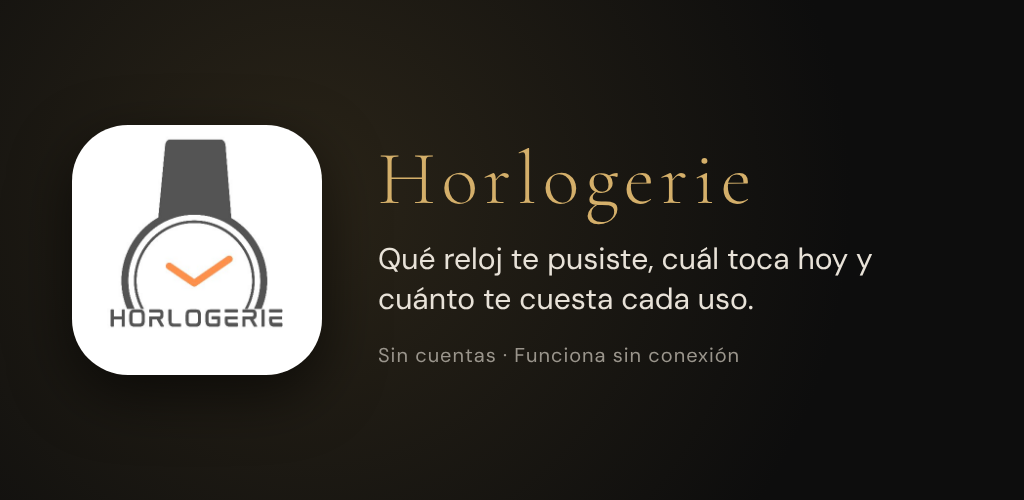
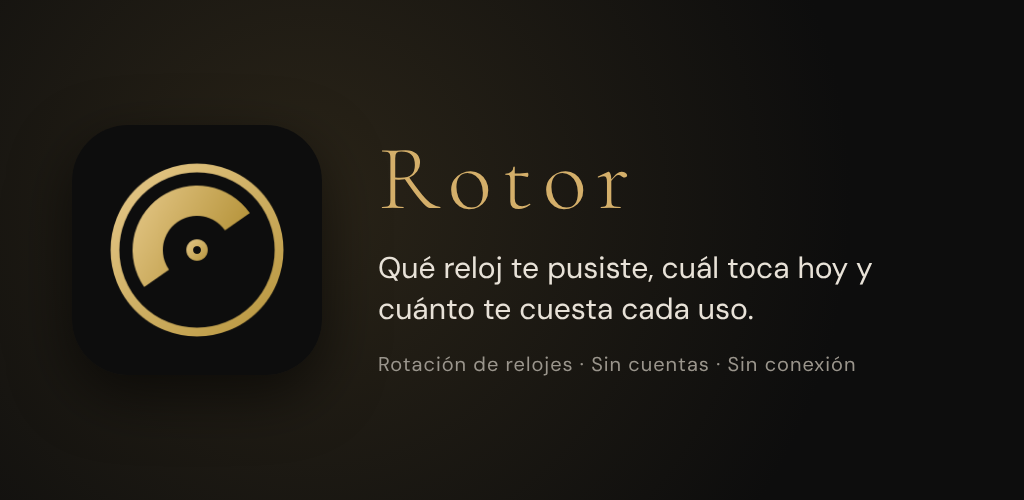
feat: la app pasa a llamarse Rotor (v2.4.0)
Cambia solo lo visible: título, pantalla de inicio, cabecera, manifest,
PDF, nombres de archivo exportados, política de privacidad, ficha de Play
(«Rotor: rotación de relojes», 26 caracteres), capturas y gráfico
destacado. Paquete propuesto: com.delfosiq.rotor.

Se mantienen a propósito la URL /horlogerie/, las claves de localStorage,
IndexedDB y KV, la cabecera X-Horlogerie-User, el repositorio y el Worker:
cambiarlos rompería las instalaciones y los datos existentes.

Claude-Session: https://claude.ai/code/session_01Srs5XVbJ5hBmUFD4MyUTpg

diff --git a/index.html b/index.html
@@ -17,16 +17,16 @@
 <meta name="theme-color" content="#0D0D0D">
 <meta name="apple-mobile-web-app-capable" content="yes">
 <meta name="apple-mobile-web-app-status-bar-style" content="black-translucent">
-<meta name="apple-mobile-web-app-title" content="Horlogerie">
+<meta name="apple-mobile-web-app-title" content="Rotor">
 <meta name="description" content="Gestión de colección de relojes">
 <link rel="manifest" href="./manifest.json">
 <link rel="icon" type="image/x-icon" href="./favicon.ico">
 <link rel="icon" type="image/png" sizes="16x16" href="./icons/favicon-16x16.png">
 <link rel="icon" type="image/png" sizes="32x32" href="./icons/favicon-32x32.png">
 <link rel="apple-touch-icon" sizes="180x180" href="./icons/apple-touch-icon.png">
-<title>Horlogerie</title>
-<link rel="stylesheet" href="./css/fonts.css?v=2.3.0">
-<link rel="stylesheet" href="./css/icons.css?v=2.3.0">
+<title>Rotor</title>
+<link rel="stylesheet" href="./css/fonts.css?v=2.4.0">
+<link rel="stylesheet" href="./css/icons.css?v=2.4.0">
 <style>
 /* CRITICAL CSS - inlined to survive SW cache issues */
 *,*::before,*::after{box-sizing:border-box;margin:0;padding:0;}
@@ -68,6 +68,7 @@ body{background:var(--dark);color:var(--light);font-family:var(--font-body);}
 /* INTRO */
 .intro{position:fixed;inset:0;background:var(--dark);display:flex;flex-direction:column;align-items:center;justify-content:center;z-index:999;transition:opacity 0.6s ease;}
 .intro.fade{opacity:0;pointer-events:none;}
+.intro-mark{width:84px;height:84px;margin-bottom:18px;}
 
 /* TOAST */
 .toast{position:fixed;top:calc(var(--safe-top) + 50px);left:50%;transform:translateX(-50%) translateY(-80px);background:var(--dark2);border:0.5px solid var(--gold);border-radius:var(--radius);padding:10px 18px;font-size:13px;color:var(--light);z-index:500;transition:transform 0.3s ease;white-space:nowrap;pointer-events:none;}
@@ -98,7 +99,7 @@ body{background:var(--dark);color:var(--light);font-family:var(--font-body);}
 .loading-spinner{display:inline-block;width:14px;height:14px;border:2px solid var(--mid);border-top-color:var(--gold);border-radius:50%;animation:spin 0.7s linear infinite;}
 @keyframes spin{to{transform:rotate(360deg);}}
 </style>
-<link rel="stylesheet" href="./css/app.css?v=2.3.0">
+<link rel="stylesheet" href="./css/app.css?v=2.4.0">
 </head>
 <body>
 <a href="#view-home" class="sr-only skip-link">Saltar al contenido principal</a>
@@ -106,9 +107,10 @@ body{background:var(--dark);color:var(--light);font-family:var(--font-body);}
 
   <!-- INTRO SPLASH -->
   <div class="intro" id="intro">
-    <div class="intro-logo">Horlogerie</div>
+    <img class="intro-mark" src="./brand/rotor-symbol.svg" alt="" width="84" height="84">
+    <div class="intro-logo">Rotor</div>
     <div class="intro-line"></div>
-    <div class="intro-sub">Colección Personal</div>
+    <div class="intro-sub">Rotación de relojes</div>
   </div>
 
   <!-- TOAST -->
@@ -148,8 +150,8 @@ body{background:var(--dark);color:var(--light);font-family:var(--font-body);}
           <i class="ti ti-refresh" id="update-btn-icon" style="color:var(--mid);font-size:18px;"></i>
         </div>
         <div>
-          <div class="app-title">Horlogerie</div>
-          <div class="app-subtitle">Colección Personal</div>
+          <div class="app-title">Rotor</div>
+          <div class="app-subtitle">Tu colección de relojes</div>
         </div>
         <div id="sync-status-indicator" onclick="syncManual()" style="cursor:pointer;width:28px;display:flex;align-items:center;justify-content:center;" title="Sincronizar">
           <i class="ti ti-cloud" style="color:var(--mid);font-size:18px;"></i>
@@ -732,7 +734,7 @@ body{background:var(--dark);color:var(--light);font-family:var(--font-body);}
       <!-- ABOUT -->
       <div class="settings-section-title" style="margin-top:20px;">Acerca de</div>
       <div class="settings-about">
-        <div style="font-family:var(--font-display);font-size:22px;color:var(--gold-light);letter-spacing:2px;">Horlogerie</div>
+        <div style="font-family:var(--font-display);font-size:22px;color:var(--gold-light);letter-spacing:2px;">Rotor</div>
         <div style="font-size:12px;color:var(--mid);margin-top:6px;">
           Versión <span id="app-version-display">—</span>
         </div>
@@ -783,20 +785,20 @@ body{background:var(--dark);color:var(--light);font-family:var(--font-body);}
 </div><!-- #app -->
 
 <script src="./js/vendor/qrcode-generator-1.4.4.js"></script>
-<script src="./js/db.js?v=2.3.0"></script>
-<script src="./js/storage.js?v=2.3.0"></script>
-<script src="./js/api.js?v=2.3.0"></script>
-<script src="./js/sync.js?v=2.3.0"></script>
-<script src="./js/export.js?v=2.3.0"></script>
-<script src="./js/modules/core.js?v=2.3.0"></script>
-<script src="./js/modules/home-detail.js?v=2.3.0"></script>
-<script src="./js/modules/modals.js?v=2.3.0"></script>
-<script src="./js/modules/history.js?v=2.3.0"></script>
-<script src="./js/modules/settings.js?v=2.3.0"></script>
-<script src="./js/modules/wishlist.js?v=2.3.0"></script>
-<script src="./js/modules/session.js?v=2.3.0"></script>
-<script src="./js/modules/updates.js?v=2.3.0"></script>
-<script src="./js/modules/url-import.js?v=2.3.0"></script>
+<script src="./js/db.js?v=2.4.0"></script>
+<script src="./js/storage.js?v=2.4.0"></script>
+<script src="./js/api.js?v=2.4.0"></script>
+<script src="./js/sync.js?v=2.4.0"></script>
+<script src="./js/export.js?v=2.4.0"></script>
+<script src="./js/modules/core.js?v=2.4.0"></script>
+<script src="./js/modules/home-detail.js?v=2.4.0"></script>
+<script src="./js/modules/modals.js?v=2.4.0"></script>
+<script src="./js/modules/history.js?v=2.4.0"></script>
+<script src="./js/modules/settings.js?v=2.4.0"></script>
+<script src="./js/modules/wishlist.js?v=2.4.0"></script>
+<script src="./js/modules/session.js?v=2.4.0"></script>
+<script src="./js/modules/updates.js?v=2.4.0"></script>
+<script src="./js/modules/url-import.js?v=2.4.0"></script>
 <script>
   if ('serviceWorker' in navigator) {
     window.addEventListener('load', () => {

diff --git a/sw.js b/sw.js
@@ -8,16 +8,16 @@
  *  - On new SW detected: force reload so user always gets latest app
  */
 
-const CACHE   = 'horlogerie-v2.3.0';
+const CACHE   = 'horlogerie-v2.4.0';
 const BASE    = '/horlogerie';
 
 // Files to pre-cache on install
 const SHELL = [
   `${BASE}/`,
   `${BASE}/index.html`,
-  `${BASE}/css/app.css?v=2.3.0`,
-  `${BASE}/css/fonts.css?v=2.3.0`,
-  `${BASE}/css/icons.css?v=2.3.0`,
+  `${BASE}/css/app.css?v=2.4.0`,
+  `${BASE}/css/fonts.css?v=2.4.0`,
+  `${BASE}/css/icons.css?v=2.4.0`,
   `${BASE}/css/icons/tabler-icons-6559ca38.woff2`,
   `${BASE}/css/fonts/cormorant-garamond-latin-300-normal.woff2`,
   `${BASE}/css/fonts/cormorant-garamond-latin-400-normal.woff2`,
@@ -28,21 +28,22 @@ const SHELL = [
   `${BASE}/css/fonts/dm-sans-latin-400-normal.woff2`,
   `${BASE}/css/fonts/dm-sans-latin-500-normal.woff2`,
   `${BASE}/js/vendor/jspdf-2.5.1.umd.min.js`,
-  `${BASE}/js/db.js?v=2.3.0`,
-  `${BASE}/js/storage.js?v=2.3.0`,
-  `${BASE}/js/api.js?v=2.3.0`,
-  `${BASE}/js/sync.js?v=2.3.0`,
-  `${BASE}/js/export.js?v=2.3.0`,
-  `${BASE}/js/modules/core.js?v=2.3.0`,
-  `${BASE}/js/modules/home-detail.js?v=2.3.0`,
-  `${BASE}/js/modules/modals.js?v=2.3.0`,
-  `${BASE}/js/modules/history.js?v=2.3.0`,
-  `${BASE}/js/modules/settings.js?v=2.3.0`,
-  `${BASE}/js/modules/wishlist.js?v=2.3.0`,
-  `${BASE}/js/modules/session.js?v=2.3.0`,
-  `${BASE}/js/modules/updates.js?v=2.3.0`,
-  `${BASE}/js/modules/url-import.js?v=2.3.0`,
+  `${BASE}/js/db.js?v=2.4.0`,
+  `${BASE}/js/storage.js?v=2.4.0`,
+  `${BASE}/js/api.js?v=2.4.0`,
+  `${BASE}/js/sync.js?v=2.4.0`,
+  `${BASE}/js/export.js?v=2.4.0`,
+  `${BASE}/js/modules/core.js?v=2.4.0`,
+  `${BASE}/js/modules/home-detail.js?v=2.4.0`,
+  `${BASE}/js/modules/modals.js?v=2.4.0`,
+  `${BASE}/js/modules/history.js?v=2.4.0`,
+  `${BASE}/js/modules/settings.js?v=2.4.0`,
+  `${BASE}/js/modules/wishlist.js?v=2.4.0`,
+  `${BASE}/js/modules/session.js?v=2.4.0`,
+  `${BASE}/js/modules/updates.js?v=2.4.0`,
+  `${BASE}/js/modules/url-import.js?v=2.4.0`,
   `${BASE}/js/vendor/qrcode-generator-1.4.4.js`,
+  `${BASE}/brand/rotor-symbol.svg`,
   `${BASE}/manifest.json`,
   `${BASE}/watches_db.json`,  `${BASE}/icons/icon-192.png`,
   `${BASE}/icons/icon-512.png`,

diff --git a/js/export.js b/js/export.js
@@ -52,7 +52,7 @@ async function generateCollectionPDF() {
   drawSummaryPage(doc, ws, W, H);
 
   /* ── Download ── */
-  const filename = `horlogerie-coleccion-${new Date().toISOString().slice(0,10)}.pdf`;
+  const filename = `rotor-coleccion-${new Date().toISOString().slice(0,10)}.pdf`;
   doc.save(filename);
   showToast('PDF descargado');
 }
@@ -73,7 +73,7 @@ function drawCover(doc, ws, W, H) {
   doc.setTextColor(...PDF_GOLD_L);
   doc.setFont('helvetica', 'bold');
   doc.setFontSize(42);
-  doc.text('HORLOGERIE', W / 2, 80, { align: 'center', charSpace: 5 });
+  doc.text('ROTOR', W / 2, 80, { align: 'center', charSpace: 5 });
 
   doc.setFillColor(...PDF_GOLD);
   doc.rect(W / 2 - 30, 88, 60, 0.5, 'F');
@@ -412,7 +412,7 @@ async function drawWatchPage(doc, w, pageNum, total, W, H) {
   doc.setTextColor(...PDF_MID);
   doc.setFont('helvetica', 'normal');
   doc.setFontSize(7);
-  doc.text('Horlogerie · Colección Personal', W / 2, H - 5, { align: 'center' });
+  doc.text('Rotor · Colección personal', W / 2, H - 5, { align: 'center' });
 }
 
 /* ════════════════════════════════════════
@@ -505,7 +505,7 @@ function drawSummaryPage(doc, ws, W, H) {
   doc.setTextColor(...PDF_MID);
   doc.setFont('helvetica', 'normal');
   doc.setFontSize(7);
-  doc.text(`Horlogerie · ${new Date().toLocaleDateString('es-ES', { day:'2-digit', month:'long', year:'numeric' })}`, W / 2, H - 5, { align: 'center' });
+  doc.text(`Rotor · ${new Date().toLocaleDateString('es-ES', { day:'2-digit', month:'long', year:'numeric' })}`, W / 2, H - 5, { align: 'center' });
 }
 
 /* ════════════════════════════════════════

diff --git a/privacidad.html b/privacidad.html
@@ -4,7 +4,7 @@
 <meta charset="UTF-8">
 <meta name="viewport" content="width=device-width, initial-scale=1.0">
 <meta name="theme-color" content="#0D0D0D">
-<title>Privacidad · Horlogerie</title>
+<title>Privacidad · Rotor</title>
 <link rel="stylesheet" href="./css/fonts.css">
 <style>
   :root { --dark:#0D0D0D; --dark2:#1A1A1A; --gold:#B8963E; --gold-light:#D4AF6A; --light:#E8E2D8; --mid:#9a958c; }
@@ -30,14 +30,14 @@
 <body>
 <main>
   <h1>Privacidad</h1>
-  <div class="meta">Horlogerie · Última actualización: 11 de octubre de 2026</div>
+  <div class="meta">Rotor (antes Horlogerie) · Última actualización: 11 de octubre de 2026</div>
 
   <div class="box">
     <p><strong>En resumen:</strong> tu colección se guarda en tu dispositivo. Solo sale de él si activas la «Copia en la nube», y en ese caso se guarda cifrada en tránsito en Cloudflare para que puedas usarla en otros dispositivos. No hay cuentas, ni publicidad, ni analítica, ni venta de datos. Puedes borrar tus datos de la nube desde la propia app.</p>
   </div>
 
   <h2>Quién es el responsable</h2>
-  <p>Horlogerie es una aplicación de Delfos-IQ. Contacto para cualquier cuestión de privacidad: <strong>[EMAIL DE CONTACTO]</strong>.</p>
+  <p>Rotor es una aplicación de Delfos-IQ. Contacto para cualquier cuestión de privacidad: <strong>[EMAIL DE CONTACTO]</strong>.</p>
 
   <h2>Qué datos maneja la app</h2>
   <div class="scroll">
@@ -76,7 +76,7 @@
   <h2>Cambios</h2>
   <p>Si esta política cambia, se actualizará esta página y la fecha de arriba.</p>
 
-  <p style="margin-top:40px;"><a href="./">← Volver a Horlogerie</a></p>
+  <p style="margin-top:40px;"><a href="./">← Volver a Rotor</a></p>
 </main>
 </body>
 </html>

diff --git a/js/modules/settings.js b/js/modules/settings.js
@@ -65,7 +65,7 @@ async function handleExportJSON() {
   const blob = new Blob([JSON.stringify(backup, null, 2)], { type: 'application/json' });
   const url  = URL.createObjectURL(blob);
   const a    = document.createElement('a');
-  a.href = url; a.download = `horlogerie-backup-${new Date().toISOString().slice(0,10)}.json`;
+  a.href = url; a.download = `rotor-copia-${new Date().toISOString().slice(0,10)}.json`;
   document.body.appendChild(a); a.click(); a.remove();
   setTimeout(() => URL.revokeObjectURL(url), 1000);
   showToast(`Copia descargada · ${backup.watches.length} relojes, ${backup.wishlist.length} deseos`);

diff --git a/js/modules/updates.js b/js/modules/updates.js
@@ -1,4 +1,4 @@
-const APP_VERSION = '2.3.0'; // Must match version.json
+const APP_VERSION = '2.4.0'; // Must match version.json
 
 async function initVersionCheck() {
   // Hidden legacy elements kept for backward compatibility with other modules

diff --git a/js/modules/core.js b/js/modules/core.js
@@ -1,5 +1,5 @@
 /**
- * app.js — Horlogerie UI
+ * core.js — Rotor (antes Horlogerie) UI
  * Depends on: db.js, storage.js, api.js, sync.js, export.js
  *
  * Features:

diff --git a/tools/play-screenshots.py b/tools/play-screenshots.py
@@ -103,12 +103,12 @@ async def main():
           body{{margin:0;width:1024px;height:500px;background:radial-gradient(circle at 30% 40%,#2a2418,#0D0D0D 70%);
                display:flex;align-items:center;gap:56px;padding:0 72px;box-sizing:border-box;color:#E8E2D8;font-family:'DM Sans',sans-serif}}
           img{{width:250px;height:250px;border-radius:56px;box-shadow:0 20px 60px rgba(0,0,0,.6)}}
-          h1{{font-family:'Cormorant Garamond',serif;font-weight:300;font-size:76px;letter-spacing:6px;margin:0;color:#D4AF6A}}
+          h1{{font-family:'Cormorant Garamond',serif;font-weight:300;font-size:92px;letter-spacing:10px;margin:0;color:#D4AF6A}}
           p{{font-size:30px;line-height:1.35;margin:14px 0 0;max-width:560px}}
           small{{display:block;margin-top:22px;font-size:20px;color:#9a958c;letter-spacing:1px}}
-        </style></head><body><img src="../../icons/icon-512.png"><div><h1>Horlogerie</h1>
+        </style></head><body><img src="../../icons/icon-512.png"><div><h1>Rotor</h1>
           <p>Qué reloj te pusiste, cuál toca hoy y cuánto te cuesta cada uso.</p>
-          <small>Sin cuentas · Funciona sin conexión</small></div></body></html>""", encoding="utf-8")
+          <small>Rotación de relojes · Sin cuentas · Sin conexión</small></div></body></html>""", encoding="utf-8")
         await fg.goto("http://localhost:8080/horlogerie/docs/play/_grafico.html")
         await fg.evaluate("document.fonts.ready")
         await fg.wait_for_timeout(400)

diff --git a/docs/play/README.md b/docs/play/README.md
@@ -1,6 +1,6 @@
-# Publicar Horlogerie en Google Play
+# Publicar Rotor en Google Play
 
-Guía paso a paso para empaquetar la PWA como app Android (TWA, *Trusted Web Activity*) y publicarla. La app sigue viviendo en `https://delfos-iq.github.io/horlogerie/`: la TWA es un envoltorio que la abre a pantalla completa, sin barra del navegador. Cada `git push` actualiza también la app de Play, sin volver a subir nada (salvo cambios del envoltorio).
+Guía paso a paso para empaquetar la PWA (nombre visible: **Rotor**; la URL sigue siendo `/horlogerie/`) como app Android (TWA, *Trusted Web Activity*) y publicarla. La app sigue viviendo en `https://delfos-iq.github.io/horlogerie/`: la TWA es un envoltorio que la abre a pantalla completa, sin barra del navegador. Cada `git push` actualiza también la app de Play, sin volver a subir nada (salvo cambios del envoltorio).
 
 Material listo en esta carpeta:
 
@@ -20,7 +20,7 @@ Para regenerar las capturas: `python3 tools/play-screenshots.py` (con la app ser
 ## 0. Antes de empezar (pendiente)
 
 - [ ] Poner un email de contacto en `privacidad.html` (busca `[EMAIL DE CONTACTO]`). Es obligatorio.
-- [ ] Decidir el nombre del paquete. Propuesta: `com.delfosiq.horlogerie`. **No se puede cambiar después de publicar.**
+- [ ] Decidir el nombre del paquete. Propuesta: `com.delfosiq.rotor`. **No se puede cambiar después de publicar.**
 
 ## 1. Generar el paquete Android (AAB)
 
@@ -28,8 +28,8 @@ Para regenerar las capturas: `python3 tools/play-screenshots.py` (con la app ser
 
 1. Abre https://www.pwabuilder.com e introduce `https://delfos-iq.github.io/horlogerie/`.
 2. *Package for stores* → **Android** → *Generate package* → *Options*:
-   - Package ID: `com.delfosiq.horlogerie`
-   - App name: `Horlogerie` · Short name: `Horlogerie`
+   - Package ID: `com.delfosiq.rotor`
+   - App name: `Rotor` · Short name: `Rotor`
    - Display mode: `standalone` · Status bar y nav bar color: `#0D0D0D`
    - Signing key: **Create new** y guarda el `.keystore` y sus contraseñas en un sitio seguro (gestor de contraseñas + copia). Si los pierdes, no podrás actualizar la app. Con *Play App Signing* (paso 3) Google guarda la clave de firma final y la tuya queda como clave de subida.
 3. Descarga el ZIP. Contiene el `.aab` para Play, un `.apk` para probar en tu móvil y un `assetlinks.json`.
@@ -39,7 +39,7 @@ Para regenerar las capturas: `python3 tools/play-screenshots.py` (con la app ser
 
 ```bash
 npm i -g @bubblewrap/cli
-mkdir horlogerie-twa && cd horlogerie-twa
+mkdir rotor-twa && cd rotor-twa
 cp ../docs/play/twa-manifest.json .
 bubblewrap build      # pide crear la clave de firma la primera vez
 ```
@@ -58,7 +58,7 @@ Android solo abre la app a pantalla completa si la web declara que la app es suy
 
 ## 3. Play Console
 
-1. Crea la app: nombre `Horlogerie`, idioma predeterminado español (España), **App**, **Gratuita**.
+1. Crea la app: nombre `Rotor: rotación de relojes`, idioma predeterminado español (España), **App**, **Gratuita**.
 2. Acepta *Play App Signing* al subir el primer AAB.
 3. **Ficha de Play Store**: textos de `ficha.md`, icono `icons/icon-512.png`, gráfico destacado y capturas de `capturas/`.
 4. **Contenido de la aplicación**:

diff --git a/README.md b/README.md
@@ -1,6 +1,8 @@
-# Horlogerie
+# Rotor (antes Horlogerie)
 
-PWA para gestionar una colección de relojes: qué relojes tienes, cuándo te pusiste cada uno, cuál toca ahora, su ficha técnica, el coste por uso y los avisos de pila y revisión. Pensada para coleccionistas de homenajes y microbrands (Berny, Pagani Design, San Martin, Steeldive…). Funciona sin conexión y no carga nada de terceros.
+PWA para gestionar una colección de relojes. El nombre visible es **Rotor**; la URL (`/horlogerie/`), las claves de datos, el repositorio y el Worker conservan el nombre original para no romper instalaciones ni datos.
+
+ qué relojes tienes, cuándo te pusiste cada uno, cuál toca ahora, su ficha técnica, el coste por uso y los avisos de pila y revisión. Pensada para coleccionistas de homenajes y microbrands (Berny, Pagani Design, San Martin, Steeldive…). Funciona sin conexión y no carga nada de terceros.
 
 - **App:** https://delfos-iq.github.io/horlogerie/
 - **API:** Cloudflare Worker `https://horlogerie.pedicode-app.workers.dev`
@@ -11,6 +13,7 @@ PWA para gestionar una colección de relojes: qué relojes tienes, cuándo te pu
 horlogerie/
 ├── index.html              Única página de la app (vistas, modales, registro del SW)
 ├── privacidad.html         Política de privacidad pública (enlazada en Ajustes y en Play)
+├── brand/                  Logo maestro (rotor-icon.svg) y símbolo sin fondo (rotor-symbol.svg)
 ├── manifest.json           Manifest PWA (scope /horlogerie/)
 ├── sw.js                   Service worker: red primero para la app, caché para fuentes/iconos
 ├── version.json            ÚNICA fuente de la versión (ver "Publicar una versión")
@@ -51,6 +54,7 @@ horlogerie/
 └── tools/
     ├── bump-version.mjs    Propaga la versión de version.json al resto de archivos
     ├── build-icons.py      Regenera el subconjunto de iconos (ejecutar al usar un icono nuevo)
+    ├── build-brand.py      Genera iconos PNG y favicon desde brand/rotor-icon.svg
     └── play-screenshots.py Capturas de la ficha de Play con una colección de ejemplo
 ```
 

diff --git a/docs/play/ficha.md b/docs/play/ficha.md
@@ -1,4 +1,6 @@
-# Ficha de Google Play
+# Ficha de Google Play — Rotor
+
+Nombre de marca: **Rotor** (el rotor es la pieza que da cuerda a un reloj automático, y la app gira en torno a la rotación de tu colección). Antes se llamaba Horlogerie.
 
 Límites de Play: título ≤ 30 caracteres, descripción breve ≤ 80, descripción completa ≤ 4.000. Los recuentos de abajo están comprobados (descripciones completas: unos 1.450 caracteres).
 
@@ -8,14 +10,14 @@ No uses nombres de marcas de terceros (Rolex, Submariner, Royal Oak…) ni en lo
 
 ## Español (es-ES) — idioma predeterminado
 
-**Título** (29): `Horlogerie: colección relojes`
+**Título** (26): `Rotor: rotación de relojes`
 
 **Descripción breve** (77): `Qué reloj te pusiste, cuál toca hoy y cuánto te cuesta cada uso. Sin cuentas.`
 
 **Descripción completa:**
 
 ```
-Horlogerie es el cuaderno de tu colección de relojes. Apunta los que tienes, registra cuándo te pones cada uno y deja que la app te diga cuál lleva más tiempo en la caja.
+Rotor es el cuaderno de tu colección de relojes. Apunta los que tienes, registra cuándo te pones cada uno y deja que la app te diga cuál lleva más tiempo en la caja.
 
 QUÉ PUEDES HACER
 • Tu colección de un vistazo: foto, tipo de movimiento y cuándo lo llevaste por última vez.
@@ -38,14 +40,14 @@ TUS DATOS SON TUYOS
 
 ## Portugués (pt-PT)
 
-**Título** (28): `Horlogerie: coleção relógios`
+**Título** (26): `Rotor: rotação de relógios`
 
 **Descripción breve** (71): `Que relógio usaste, qual usar hoje e quanto custa cada uso. Sem contas.`
 
 **Descripción completa:**
 
 ```
-Horlogerie é o caderno da tua coleção de relógios. Regista os que tens, anota quando usas cada um e deixa a app dizer-te qual está há mais tempo na caixa.
+Rotor é o caderno da tua coleção de relógios. Regista os que tens, anota quando usas cada um e deixa a app dizer-te qual está há mais tempo na caixa.
 
 O QUE PODES FAZER
 • A tua coleção num relance: foto, tipo de movimento e quando o usaste pela última vez.
